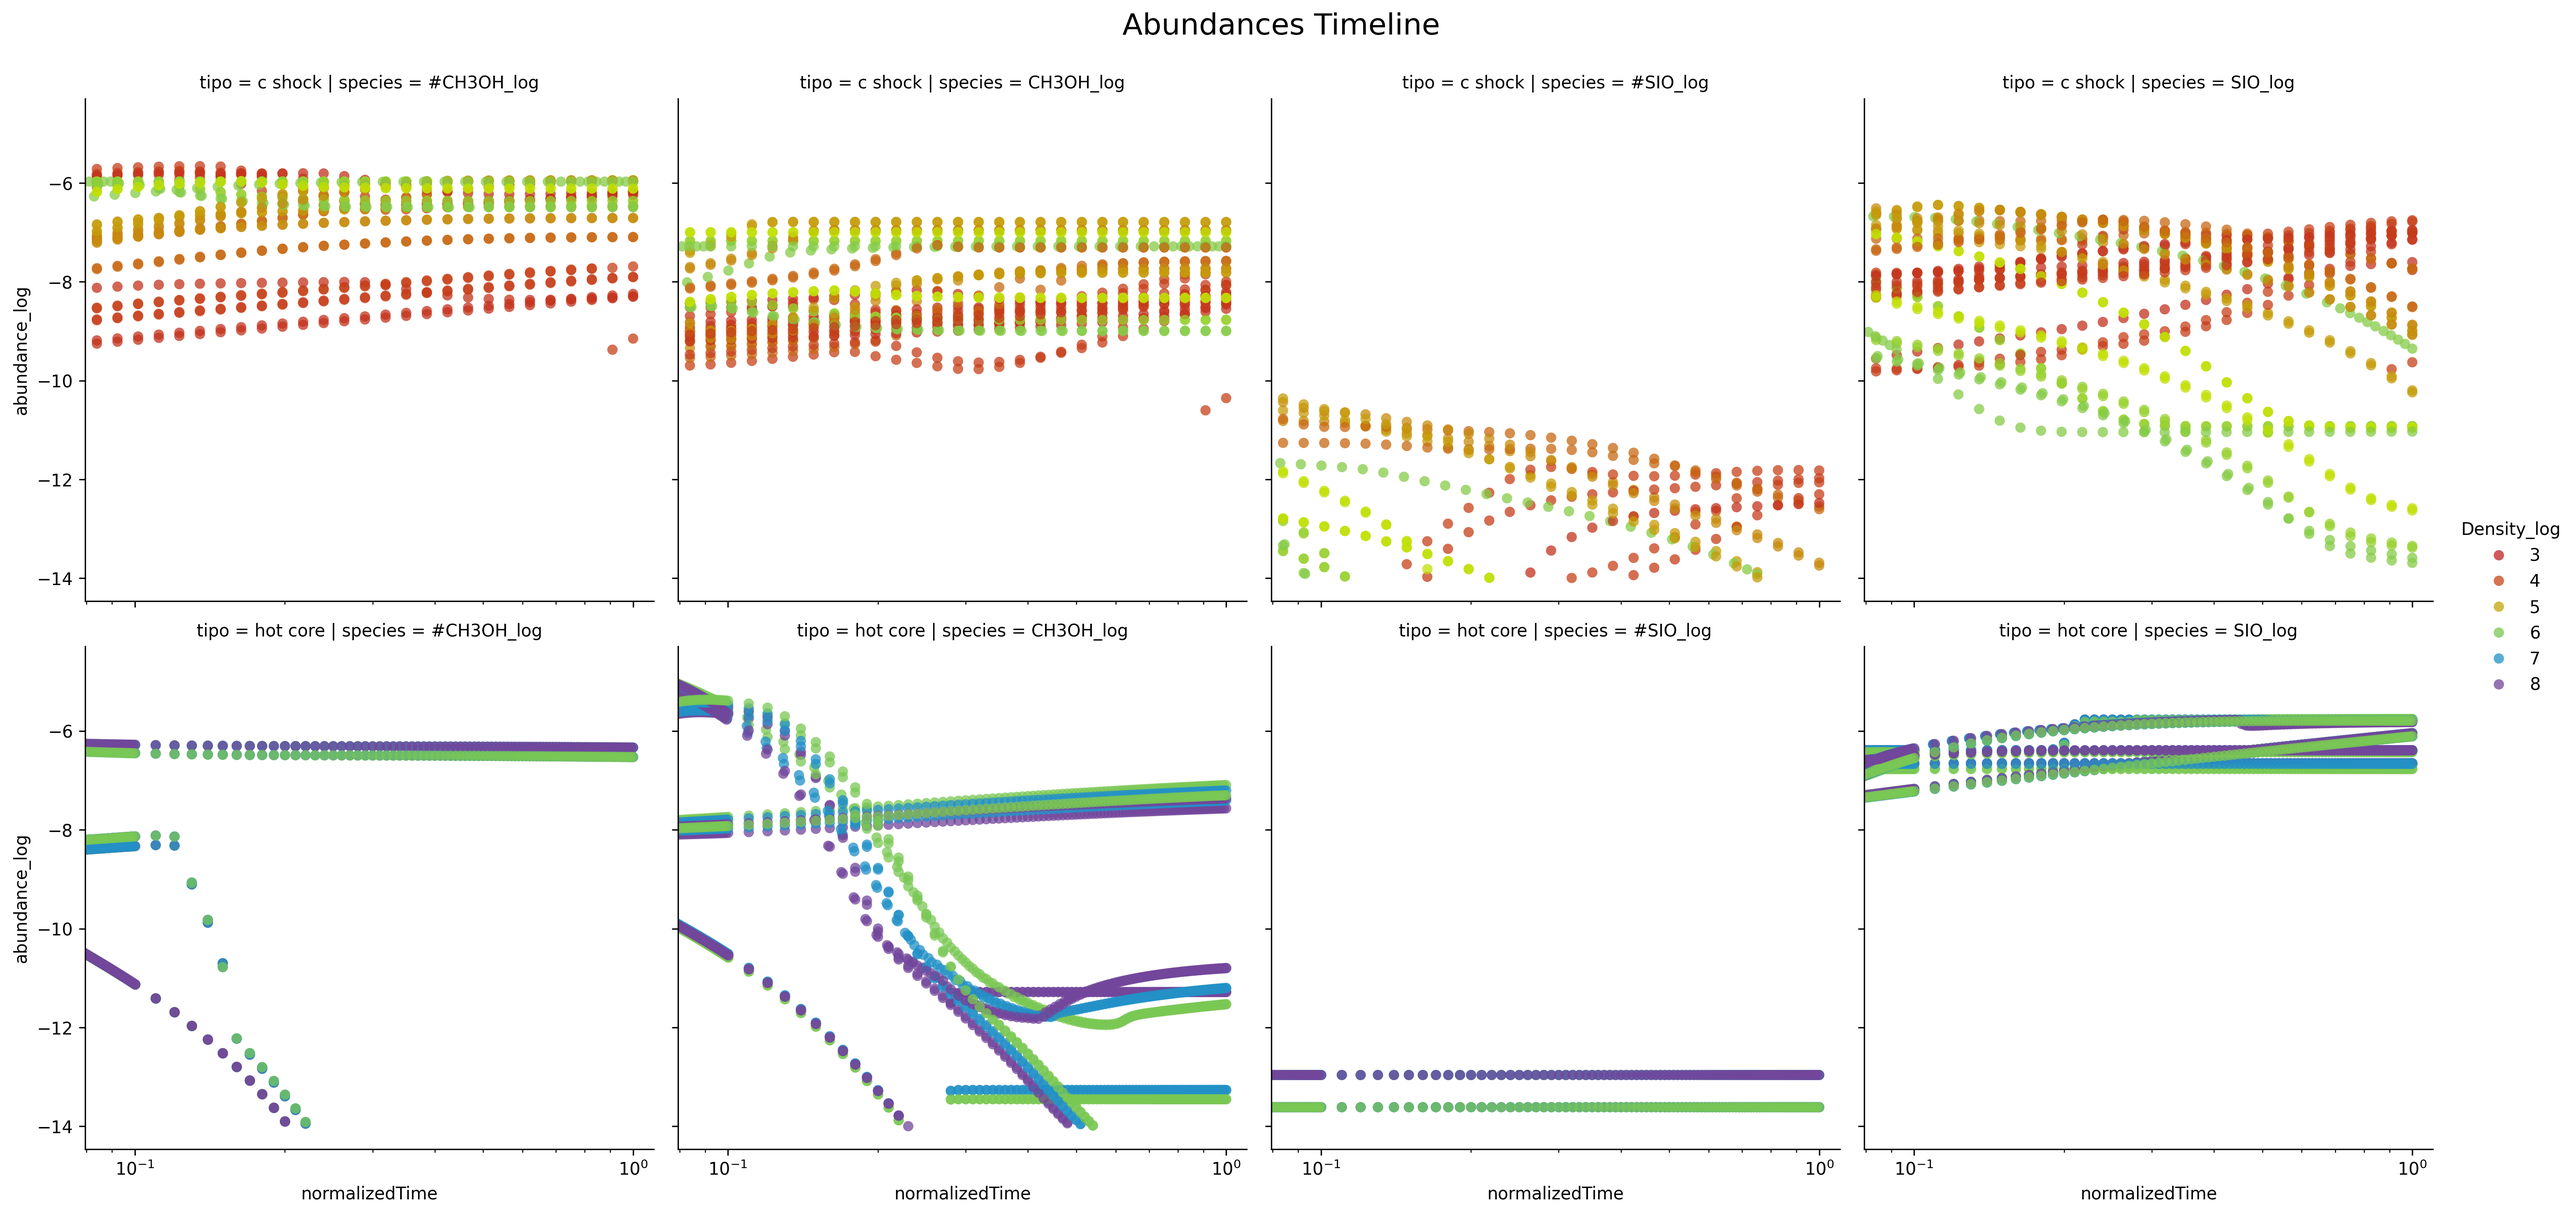
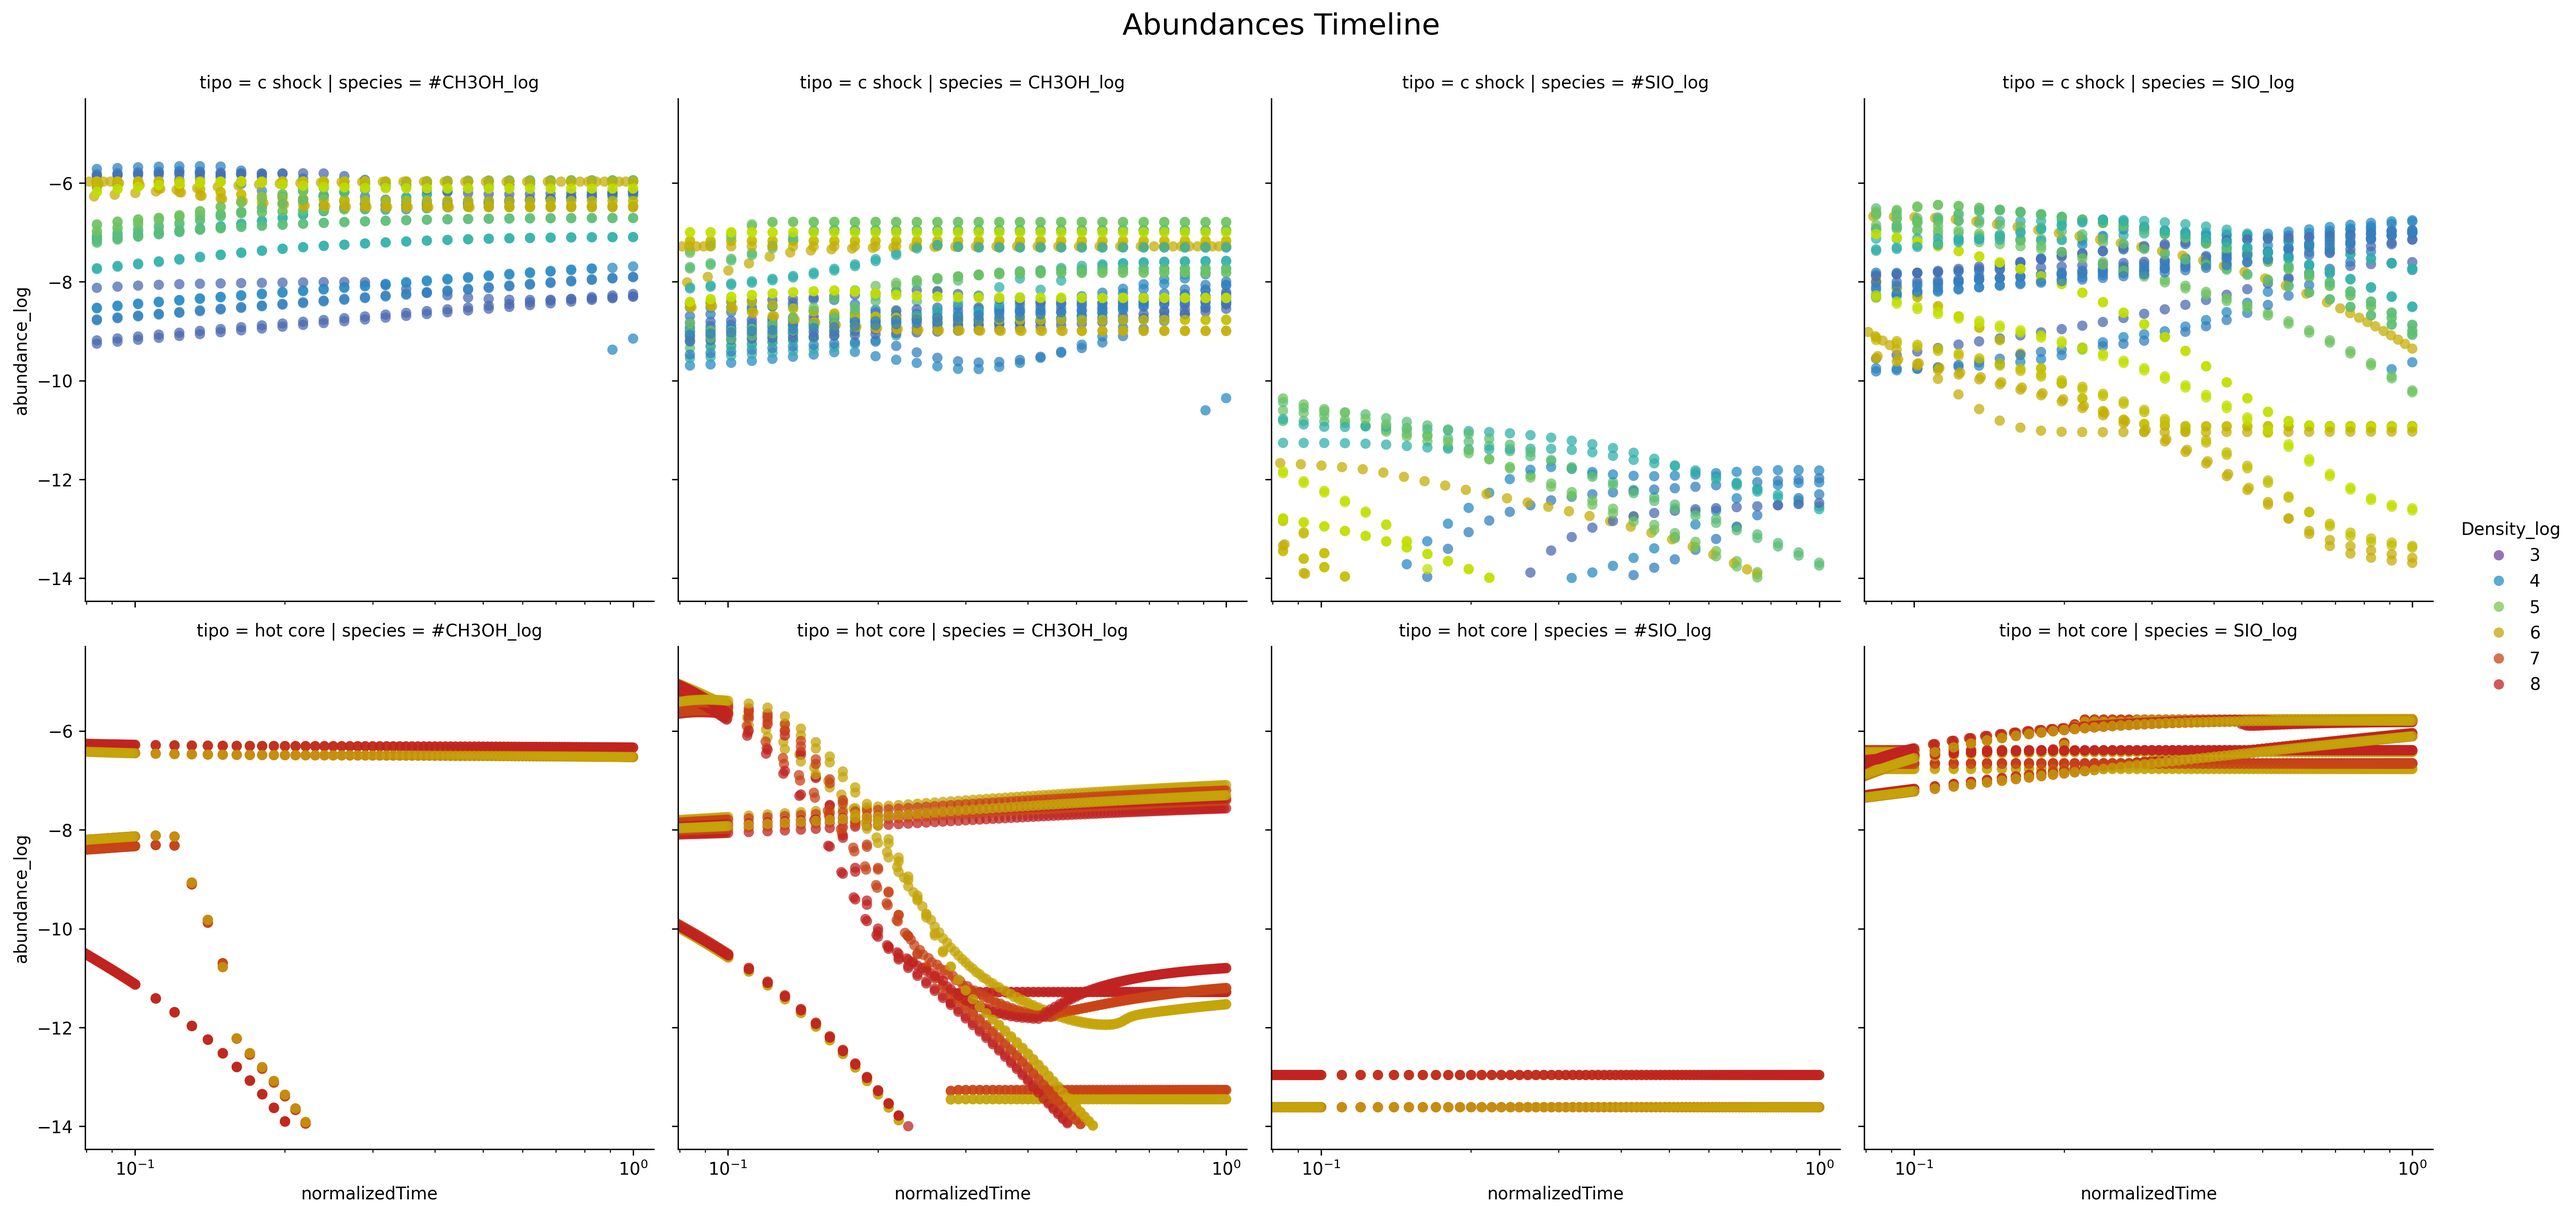
reverse colors

diff --git a/Analysis/Plotting.py b/Analysis/Plotting.py
@@ -5,7 +5,7 @@ import pandas as pd
 import constants, os, math
 
 myCmap=sns.diverging_palette(170, 330, l=65, center="dark", as_cmap=True)
-myRnbw=sns.blend_palette(['#c02321','#ca4c16','#c2e000','#0fa4d2','#72469b'],as_cmap=True)
+myRnbw=sns.blend_palette(['#72469b','#0fa4d2','#c2e000','#ca4c16','#c02321'],as_cmap=True)
 
 def buildDataframe(tipos, folder, physical, species, singleDf=True):
     if singleDf: tipos=[tipos]
